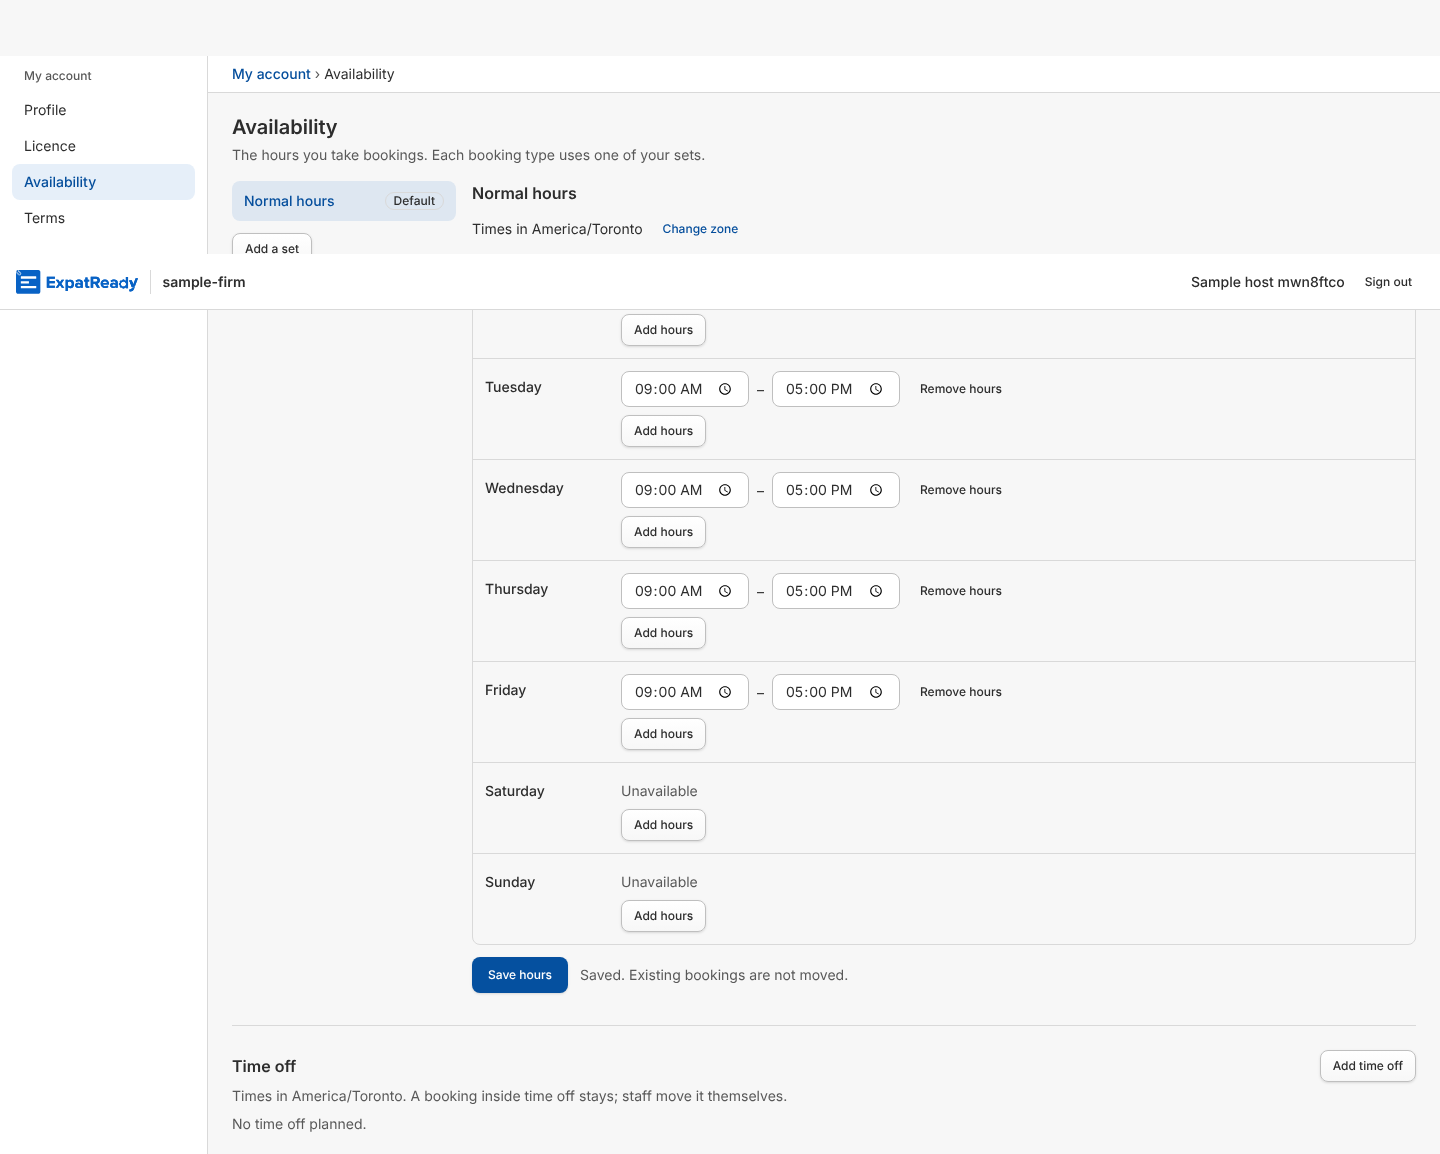
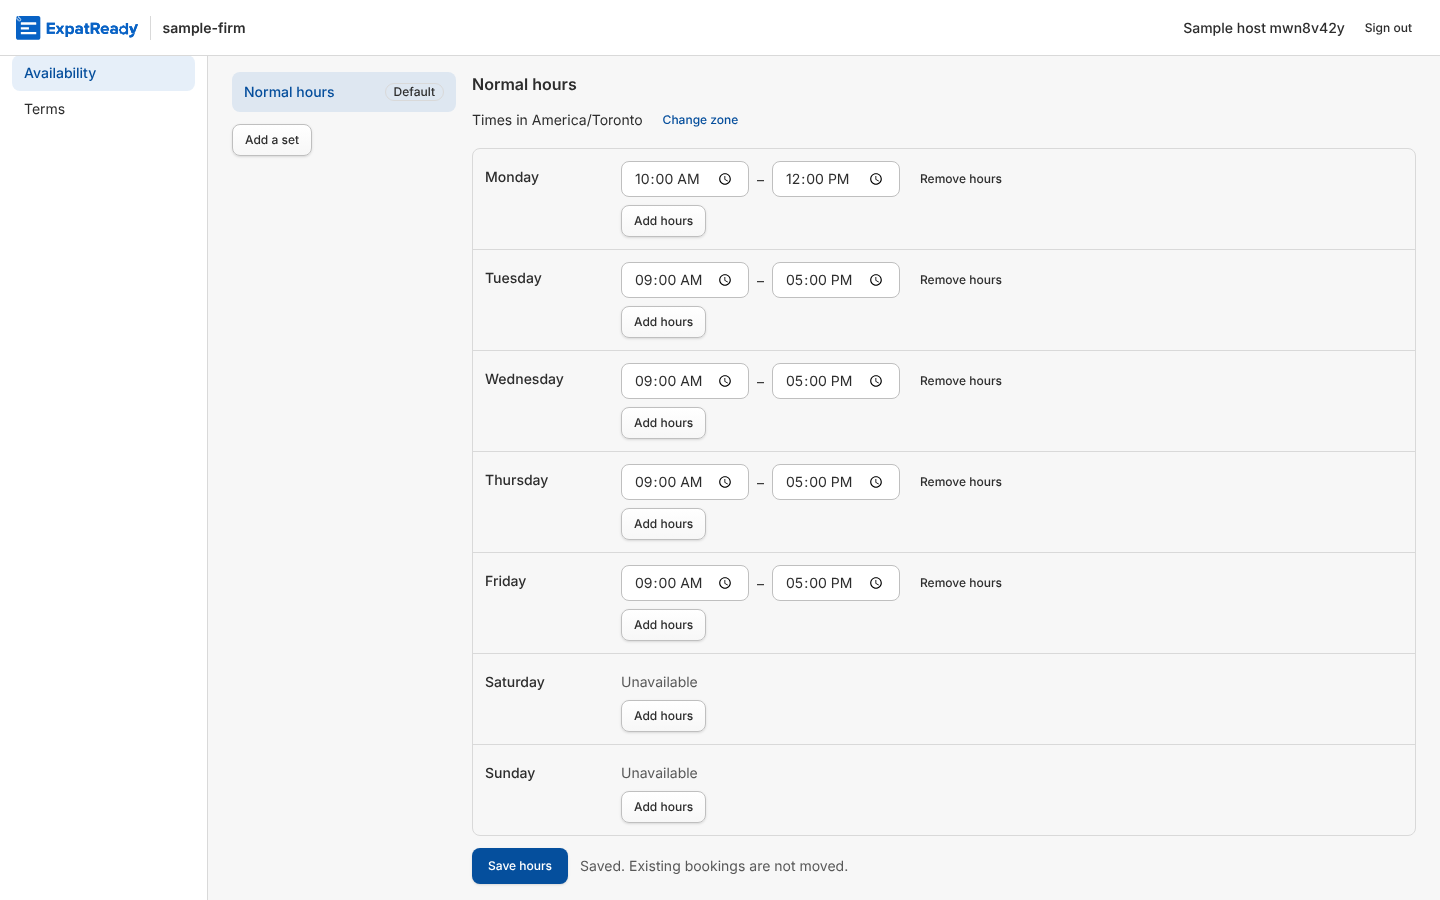
J-41: review round 1 fixes (the walk's days no longer shift when a run starts in Toronto's last hour; the fake note names the consent read; the W1 and W2 screenshots show the changed rows); 11/11
Claude-Session: https://claude.ai/code/session_01MXNda5x9K3dNqpFohcgz4m

diff --git a/ai-workers/problem-1-pathway-setup-and-form-filling/prototype/studio/tests/journeys/j_41.ts b/ai-workers/problem-1-pathway-setup-and-form-filling/prototype/studio/tests/journeys/j_41.ts
@@ -8,10 +8,11 @@
 //   W3: the public page shows no slots that day (the Tuesday cannot be chosen) and slots only inside the hours (the
 //       Monday offers 10:00-11:30 only; the Wednesday, untouched, still starts at 09:00);
 //   W4: ends at row 37's first step, the slot list: the booker picks the Monday's 10:00 and reaches "Your details".
-// Swaps (DW): none. Step 0's grep (`git grep 'fake[A-Z]…(' api/src`, 19 Nov): the booking module's only fakes in a
-// running path are `mail` and `arrival` (runtime-ports.ts), used when a booking is made; hours, time off and the slots
-// read use neither, and this walk makes no booking. Fails on the fake (P-606): with no fake in the path, the stand-in
-// replaced is "no hours or day off set": every W3 judge is run before W1 too and must fail there (the NR lines).
+// Swaps (DW): none. Step 0's grep (`git grep 'fake[A-Z]…(' api/src`, 19 Nov): the booking module's one fake in a running
+// path is `arrival` (runtime-ports.ts; FO-2's row swaps it). Hours, time off and busy times are read from the database;
+// the slots read asks `arrival` only for the consent sentence "Your details" shows, which no judge here reads, and this
+// walk makes no booking. Fails on the fake (P-606): with no fake behind any judge, the stand-in replaced is "no hours
+// or day off set": every W3 judge is run before the host changes anything and must fail there (the NR lines).
 // Dates: the Monday at least a week ahead and its Tuesday and Wednesday, America/Toronto (the Sample firm's zone).
 // Sample rows only; US$0, no model call. Screenshots: product/screens/J-41/screenshots/.
 // Run from prototype/ (HEADED=1 opens a visible browser, slowed; on Linux under xvfb-run):
@@ -57,12 +58,15 @@ if (termIds.length) await call(tok, "POST", "/platform/me/terms/accept", { versi
 // The Monday at least a week ahead, its Tuesday and Wednesday (Toronto), in the page's own words.
 const fmt = (o: Intl.DateTimeFormatOptions) => new Intl.DateTimeFormat("en-GB", { timeZone: TZ, ...o });
 let mon = new Date(Date.now() + 7 * 86_400_000); while (fmt({ weekday: "short" }).format(mon) !== "Mon") mon = new Date(mon.getTime() + 86_400_000);
+const at = (key: string, minutes = 0) => { const [y, m, d] = key.split("-").map(Number); return wallToUtc(y, m, d, minutes, TZ)!; };
+const keyOf = (d: Date) => new Intl.DateTimeFormat("en-CA", { timeZone: TZ, year: "numeric", month: "2-digit", day: "2-digit" }).format(d);
+// Each next day is read at the day before's local noon plus 24 h, so the hour the run starts never moves a day (review M1).
 const days = [0, 1, 2].map((n) => {
-  const d = new Date(mon.getTime() + n * 86_400_000 + (n ? 3_600_000 : 0)), p = Object.fromEntries(fmt({ weekday: "long", day: "numeric", month: "long", year: "numeric" }).formatToParts(d).map((x) => [x.type, x.value]));
-  return { key: new Intl.DateTimeFormat("en-CA", { timeZone: TZ, year: "numeric", month: "2-digit", day: "2-digit" }).format(d), words: `${p.weekday} ${p.day} ${p.month}`, month: `${p.month} ${p.year}` };
+  const d = new Date(at(keyOf(mon), 720).getTime() + n * 86_400_000), p = Object.fromEntries(fmt({ weekday: "long", day: "numeric", month: "long", year: "numeric" }).formatToParts(d).map((x) => [x.type, x.value]));
+  return { key: keyOf(d), words: `${p.weekday} ${p.day} ${p.month}`, month: `${p.month} ${p.year}` };
 });
 const [MON, TUE, WED] = days;
-const at = (key: string, minutes = 0) => { const [y, m, d] = key.split("-").map(Number); return wallToUtc(y, m, d, minutes, TZ)!; };
+if (!/^Monday /.test(MON.words) || !/^Tuesday /.test(TUE.words) || !/^Wednesday /.test(WED.words)) throw new Error(`STOP  the walk's days are not Monday, Tuesday, Wednesday: ${JSON.stringify(days)}`);
 
 const browser = await chromium.launch({ headless: !HEADED, slowMo: HEADED ? 250 : 0, ...(process.platform === "darwin" ? { channel: "chrome" } : existsSync("/opt/pw-browsers/chromium") ? { executablePath: "/opt/pw-browsers/chromium" } : {}) });
 const errors: string[] = [];
@@ -72,7 +76,8 @@ async function page(session: string | null): Promise<Page> {
   const p = await ctx.newPage(); p.on("pageerror", (e) => errors.push(String(e)));
   return p;
 }
-const shot = (p: Page, name: string) => p.screenshot({ path: join(SHOTS, `j41-${name}.png`), fullPage: true });
+/** The viewport with `sel` scrolled into it (a full-page shot draws the sticky top bar over the week: review m2). */
+const shot = async (p: Page, name: string, sel?: string) => { if (sel) await p.locator(sel).first().scrollIntoViewIfNeeded(); await p.screenshot({ path: join(SHOTS, `j41-${name}.png`) }); };
 /** What a booker with no session sees on the public page for one day: can the day be chosen, and its times if so. */
 async function publicDay(p: Page, d: typeof MON): Promise<{ open: boolean; times: string[] }> {
   const shown = () => p.locator("h2[aria-live]").innerText(), n = (words: string) => { const t = new Date(`1 ${words} UTC`); return t.getUTCFullYear() * 12 + t.getUTCMonth(); };
@@ -113,7 +118,7 @@ try {
   const sets = (await call(tok, "GET", "/front-office/me/availability-sets")).body.sets as { isDefault: boolean; windows: { weekday: number; start: string; end: string }[] }[];
   const saved = sets.find((s) => s.isDefault)?.windows.filter((w) => w.weekday === 1);
   ok("J-41 W1: the host sets Monday to 10:00-12:00 on My account → Availability; \"Save hours\" answers Saved and the server holds it", JSON.stringify(saved) === JSON.stringify([{ weekday: 1, start: "10:00", end: "12:00" }]) && (await p.locator("[data-saved]").innerText()).includes("Existing bookings are not moved."), saved);
-  await shot(p, "w1-hours-saved");
+  await shot(p, "w1-hours-saved", "[data-week-editor]");
 
   // ----------------------------------------------------------------------------------------- W2: adds a day off
   await p.getByRole("button", { name: "Add time off" }).click();
@@ -122,7 +127,7 @@ try {
   const off = (await call(tok, "GET", "/front-office/me/time-off")).body.timeOff as { startsAt: string; endsAt: string }[];
   const row = await p.locator("[data-time-off-row] > span").first().innerText();
   ok("J-41 W2: the host adds the Tuesday as a whole day off; it is listed and saved midnight to midnight (Toronto)", off.length === 1 && off[0].startsAt === at(TUE.key).toISOString() && off[0].endsAt === at(WED.key).toISOString() && /\(whole day\)$/.test(row), { off, row });
-  await shot(p, "w2-day-off-saved");
+  await shot(p, "w2-day-off-saved", "[data-time-off-row]");
   await p.context().close();
 
   // --------------------------------------------- W3: the public page, read by a booker with no session

diff --git a/ai-workers/problem-1-pathway-setup-and-form-filling/product/screens/J-41/build-notes.md b/ai-workers/problem-1-pathway-setup-and-form-filling/product/screens/J-41/build-notes.md
@@ -10,7 +10,7 @@
 * `J-41 W3`: the public page shows no slots that day and slots only inside the hours (the Tuesday cannot be chosen; the Monday offers 10:00 to 11:30 only; the Wednesday, untouched, still 09:00 to 16:30; the slots route says the same).
 * `J-41 W4`: ends at row 37's first step, the slot list (the booker picks 10:00 and reaches "Your details").
 * `J-41 NR` (fails on the stand-in, P-606): before any change, W3's two judges are false.
-* `J-41 DW`: none. Step 0's grep: the booking module's only fakes in a running path are `mail` and `arrival` (`runtime-ports.ts`), used when a booking is made; hours, time off and the slots read use neither, and the walk makes no booking.
+* `J-41 DW`: none. Step 0's grep: the booking module's one fake in a running path is `arrival` (`runtime-ports.ts`; FO-2's row swaps it). Hours, time off and busy times come from the database; the slots read asks `arrival` only for the consent sentence "Your details" shows, which no judge reads, and the walk makes no booking.
 
 ## Found while building
 * The Monday a week ahead can be a month's last day (30 Nov, with the Tuesday on 1 Dec): the walk moves the public calendar forward and back by its own buttons.
